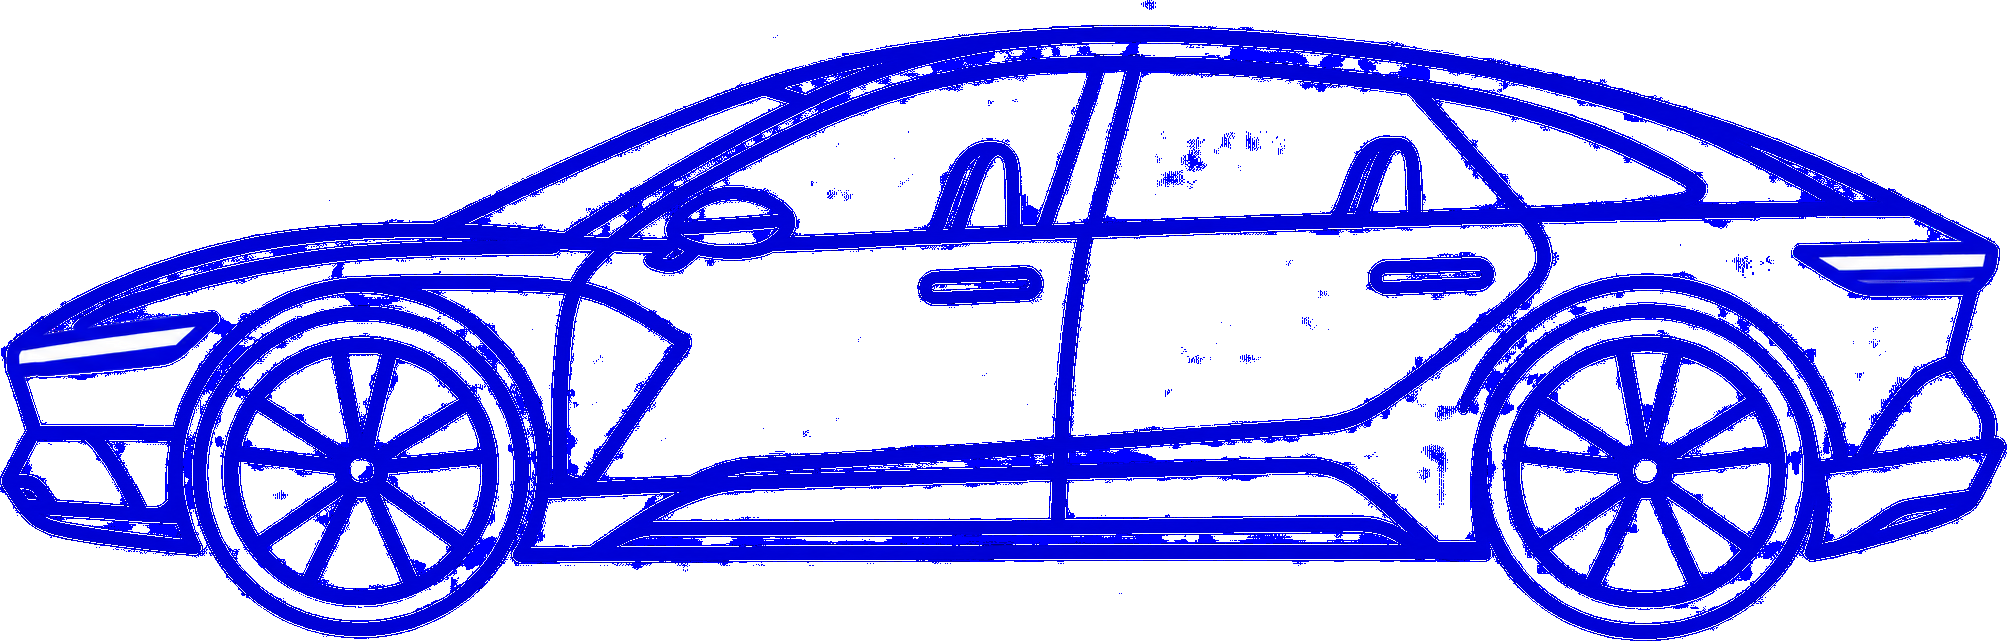
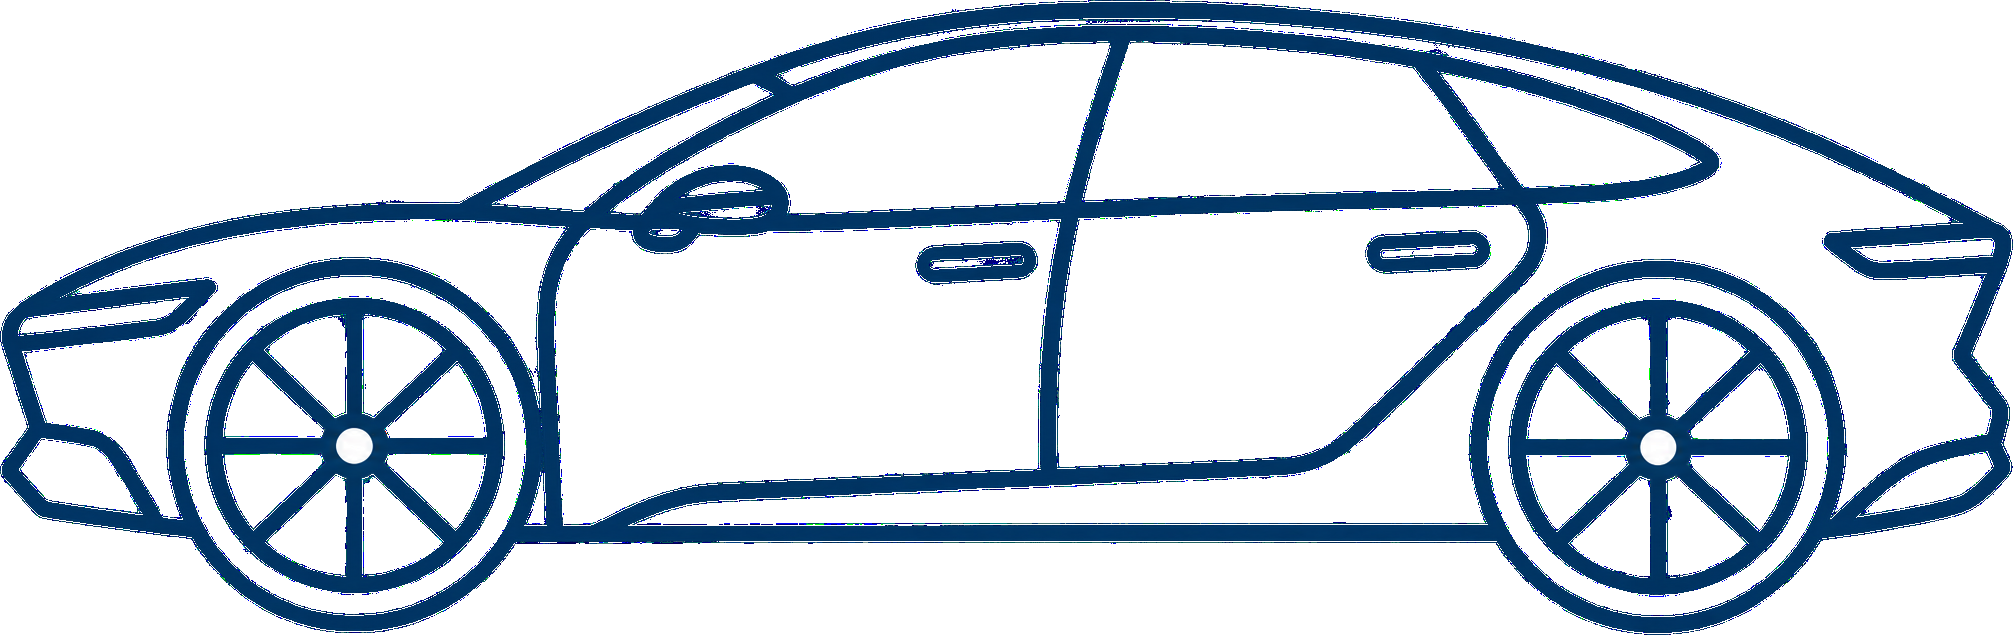
Replace EV car with new navy version at half size

diff --git a/index.html b/index.html
@@ -471,7 +471,7 @@
         <animateTransform attributeName="transform" type="translate" from="0,0" to="-80,0" dur="9s" repeatCount="indefinite"/>
       </g>
       <g class="harbor-img"><image href="assets/building.png" x="160" y="70" width="215" height="180"/></g>
-      <g class="car-img"><image href="assets/car.png" x="195" y="270" width="135" height="43"/></g>
+      <g class="car-img"><image href="assets/car.png" x="229" y="281" width="68" height="21"/></g>
       <g class="harbor-img"><image href="assets/ferry.png" x="330" y="230" width="480" height="320"/></g>
       <g class="harbor-img"><image href="assets/pv.png" x="680" y="285" width="80" height="80"/></g>
       <g class="harbor-img"><image href="assets/pv.png" x="730" y="300" width="60" height="60"/></g>      
